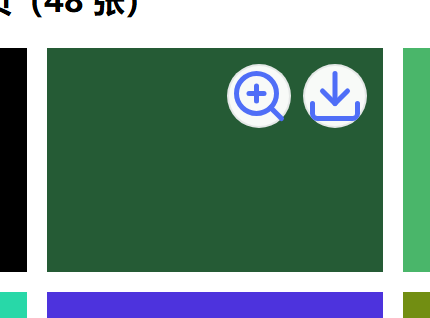
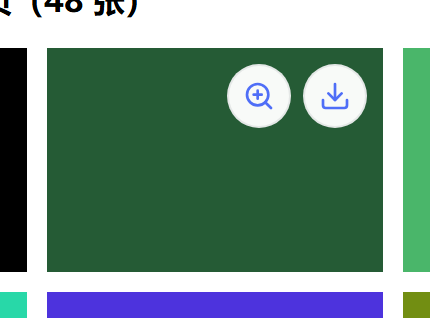
灯箱顶栏修整：保存按钮只留图标 + 图标档位在 Shadow DOM 里真正生效（v1.19.1）
用户报的现象：网页里点图片右上角放大镜进大图预览，右上角「图标异常」——
「保存原图」被挤成竖排溢出按钮，整排图标偏大、粗细不协调。查下来是两个
互不相干的缺陷叠在同一排按钮上。

1. 图标 30×30（应为 16×16）—— **这是 v1.19.0 的真漏网**：
   `--ic-*` 只定义在 theme.css 的 `:root` 上，而 `:root` 匹配的是**文档根元素**。
   内容脚本的页内 UI 跑在 Shadow DOM 里，shadow 树中不存在这个元素 →
   overlay.css 的 `var(--ic-md)` 静默失效 → width/height 退化成 auto →
   图标被撑满 32px 的按钮（实测 30×30）。
   图库页看不出来：popup.html 自己加载 theme.css，`:root` 生效、变量能继承进
   shadow 树。所以只盯图库页的截图与断言全绿。
   修法：五档抽成一条 `:root, :host { … }` 规则 —— 一条规则服务两个上下文，
   数值仍然只有一份。

2. 「保存原图」文字竖排溢出：它是唯一带文字的按钮，而 `.ih-lb-btn` 是 flex
   子项、默认允许收缩，顶栏一挤就被压到比文字还窄。
   修法：按钮改成纯图标（用户要求），并加 `flex: 0 0 auto` + `white-space: nowrap`。

顺带统一顶栏：`.ih-lb-btn` 从 `padding: 0 12px` 改成 32×32 正方形
（原来纯图标按钮被撑成 40×32，一排像被拉长），删掉多余的 `.ih-lb-icon`；
缩放的 `−` / `+` 从文字字形换成 Lucide 的 minus / plus（字形横画细竖画粗，
和 2px 描边图标对不上），走 --ic-sm。

保存按钮没有文字之后的反馈改由图标表达：空闲 download / 保存中 loader-circle
转圈 / 成功 check / 失败 circle-alert，1.8 秒回到箭头；title 与 aria-label 同步换，
读屏器仍知道当前状态。

守卫：
- browser-lightbox-local.js 新增第 8 节（6 项，48 → 54）：在**网页里**打开灯箱，
  量算出来的像素 —— 6 个按钮全 32×32、每个 svg 全 16×16、缩放步进 14×14、
  保存按钮 textContent 为空但 aria-label 在、顶栏不溢出也不折行。
  判据刻意落在像素上：「按钮里有 svg」这种断言在缺陷态下照样是绿的。
- validate.js 第 21 节 (g) 加严：档位规则的选择器必须同时含 :root 与 :host，
  且五档不许声明第二次（写两遍一定会漂）。
- 注入验证 3 项：去掉 :host → 静态红 + 运行时红（30x30）；.ih-lb-btn 退回
  padding → 红（42x32）；保存按钮放回文字 → 红 2 项（3x16 + 文字="save"）。

文档：HANDBOOK v1.19.1 条目、tests/README 第三十二个坑（同一份组件在两套变量
上下文里跑，只测了一边）+ 第 8 节说明。版本 1.19.0 → 1.19.1，截图重建。

测试：Node 17 套件（validate 293 项）+ 浏览器 28 套件（774 项）全绿。

Changed region(s): [[0.5442, 0.2264, 0.6651, 0.3962], [0.6953, 0.2264, 0.8465, 0.3962]]

diff --git a/content/lightbox.js b/content/lightbox.js
@@ -43,6 +43,14 @@
   const ICON_COPY_IMG = IH.Lucide.svg('copy');
   const ICON_GALLERY = IH.Lucide.svg('layout-grid');
   const ICON_CLOSE = IH.Lucide.svg('x');
+  const ICON_MINUS = IH.Lucide.svg('minus');
+  const ICON_PLUS = IH.Lucide.svg('plus');
+  /* 保存按钮的三种反馈态。原来这三个状态是把按钮里的文字改成
+     「保存中… / 已保存 / 保存失败」—— 一旦去掉文字，反馈就得换到图标上：
+     转圈 = 正在保存，勾 = 存好了，感叹号 = 失败。 */
+  const ICON_BUSY = IH.Lucide.svg('loader-circle');
+  const ICON_DONE = IH.Lucide.svg('check');
+  const ICON_FAIL = IH.Lucide.svg('circle-alert');
 
   let ui = null;
   let list = [];
@@ -143,16 +151,21 @@
       '  <span class="ih-lb-zoom">',
       /* 图标按钮没有可见文字，title 与 aria-label 都要给 —— 只给 title 的话
          读屏器念的是「按钮」，键盘/读屏用户根本不知道这一排是干什么的。 */
-      '    <button data-act="zoom-out" title="' + esc(t('pg.lbZoomOut')) + '" aria-label="' + esc(t('pg.lbZoomOut')) + '">−</button>',
+      '    <button data-act="zoom-out" title="' + esc(t('pg.lbZoomOut')) + '" aria-label="' + esc(t('pg.lbZoomOut')) + '">' + ICON_MINUS + '</button>',
       '    <span class="ih-lb-zoom-val">100%</span>',
-      '    <button data-act="zoom-in" title="' + esc(t('pg.lbZoomIn')) + '" aria-label="' + esc(t('pg.lbZoomIn')) + '">+</button>',
+      '    <button data-act="zoom-in" title="' + esc(t('pg.lbZoomIn')) + '" aria-label="' + esc(t('pg.lbZoomIn')) + '">' + ICON_PLUS + '</button>',
       '  </span>',
       '  <button class="ih-lb-btn" data-act="link" title="' + esc(t('pg.lbCopyLink')) + '" aria-label="' + esc(t('pg.lbCopyLink')) + '">' + ICON_LINK + '</button>',
       '  <button class="ih-lb-btn" data-act="copyimg" title="' + esc(t('pg.lbCopyImage')) + '" aria-label="' + esc(t('pg.lbCopyImage')) + '">' + ICON_COPY_IMG + '</button>',
       '  <button class="ih-lb-btn" data-act="open" title="' + esc(t('pg.lbOpenTab')) + '" aria-label="' + esc(t('pg.lbOpenTab')) + '">' + ICON_OPEN + '</button>',
       '  <button class="ih-lb-btn ih-lb-gallery" data-act="gallery" title="' + esc(t('pg.lbOpenGallery')) + '" aria-label="' + esc(t('pg.lbOpenGallery')) + '">' + ICON_GALLERY + '</button>',
-      '  <button class="ih-lb-btn ih-lb-primary" data-act="save">' + ICON_DOWNLOAD + '<span>' + esc(t('pg.saveOriginal')) + '</span></button>',
-      '  <button class="ih-lb-btn ih-lb-icon" data-act="close" title="' + esc(t('pg.lbClose')) + '" aria-label="' + esc(t('pg.lbClose')) + '">' + ICON_CLOSE + '</button>',
+      /* 保存只显示图标、不带文字。原来带「保存原图」四个字，顶栏一挤
+         文字就折成竖排、从 32px 高的按钮里溢出去（截图上像坏了）。
+         去掉文字后它是标准 32×32 图标按钮，和左边那四个一样大；
+         代价是丢了「这是保存」的文字提示 —— 用 title / aria-label 补，
+         保存过程中的反馈改由图标本身表达（见 saveCurrent）。 */
+      '  <button class="ih-lb-btn ih-lb-primary" data-act="save" title="' + esc(t('pg.saveOriginalTitle')) + '" aria-label="' + esc(t('pg.saveOriginal')) + '">' + ICON_DOWNLOAD + '</button>',
+      '  <button class="ih-lb-btn" data-act="close" title="' + esc(t('pg.lbClose')) + '" aria-label="' + esc(t('pg.lbClose')) + '">' + ICON_CLOSE + '</button>',
       '</div>',
       '<div class="ih-lb-stage">',
       '  <button class="ih-lb-nav ih-lb-prev" data-act="prev" title="' + esc(t('pg.lbPrev')) + '" aria-label="' + esc(t('pg.lbPrev')) + '">' + ICON_PREV + '</button>',
@@ -448,15 +461,31 @@
 
   /* ---------------------------- 操作 ---------------------------- */
 
+  /* 保存按钮的反馈。它现在只有图标，没有可见文字，所以状态全落在图标上：
+   *   busy → 缺口圆环（.ih-busy 让它转起来）
+   *   done → 勾（「已存在」也是勾，区别写在 title / aria-label 里）
+   *   fail → 圆圈感叹号
+   * 1.8 秒后回到下载箭头。title 与 aria-label 同步换 ——
+   * 视觉上只有一个图标，读屏器至少要知道「现在存好了还是失败了」。 */
+  function setSaveState(state, text) {
+    const btn = ui && ui.lb.querySelector('[data-act="save"]');
+    if (!btn) return;
+    const ICONS = { busy: ICON_BUSY, done: ICON_DONE, fail: ICON_FAIL, idle: ICON_DOWNLOAD };
+    btn.innerHTML = ICONS[state] || ICON_DOWNLOAD;
+    btn.classList.toggle('ih-busy', state === 'busy');
+    const label = text || (state === 'idle' ? t('pg.saveOriginalTitle') : t('pg.saveOriginal'));
+    btn.title = label;
+    btn.setAttribute('aria-label', label);
+  }
+
   async function saveCurrent() {
     const c = current();
     if (!c) return;
     const btn = ui.lb.querySelector('[data-act="save"]');
-    const label = btn.querySelector('span');
 
     clearTimeout(saveTimer);
     btn.disabled = true;
-    if (label) label.textContent = t('pg.savingShort');
+    setSaveState('busy', t('pg.savingShort'));
 
     const s = IH.Store.getSettings();
     const res = await U.sendToBg({
@@ -473,12 +502,12 @@
 
     btn.disabled = false;
     if (res && res.ok) {
-      if (label) label.textContent = res.skipped ? t('pg.skippedExists') : t('pg.savedCheck');
+      setSaveState('done', res.skipped ? t('pg.skippedExists') : t('pg.savedCheck'));
     } else {
-      if (label) label.textContent = t('pg.saveFailed');
+      setSaveState('fail', t('pg.saveFailed'));
       console.warn('[ImageHunter] 保存失败', res && res.error);
     }
-    saveTimer = setTimeout(() => { if (label) label.textContent = t('pg.saveOriginal'); }, 1800);
+    saveTimer = setTimeout(() => setSaveState('idle'), 1800);
   }
 
   function flashButton(act, ok) {

diff --git a/tests/browser-lightbox-local.js b/tests/browser-lightbox-local.js
@@ -21,6 +21,9 @@
  *   6. 图片在子 iframe 里时，预览交回顶层 frame 开
  *   7. 灯箱是页内模态：真页面上滚轮 / 空格 / ↑↓ 都不该把背景滚走，
  *      真滚动条宽度要补偿，关掉之后滚动位置还在原处
+ *   8. 顶栏图标在 Shadow DOM 里也拿得到尺寸档位（按钮 32×32、图标 16×16、
+ *      缩放步进 14×14，保存按钮只有图标没有文字）—— 这一节守的是
+ *      「只在网页里出现」的那类缺陷，图库页永远看不出来
  */
 'use strict';
 
@@ -479,6 +482,87 @@ const clickLightbox = (target, act) => target.evaluate((a) => {
     await tp.close();
     tall.close();
     tall = null;
+
+    /* --------------------------------------------------------------- *
+     * 8. 顶栏图标在 Shadow DOM 里也拿得到尺寸档位
+     *
+     * 守的是一个**只在网页里出现**的缺陷（v1.19.1 修）：
+     * `--ic-*` 原来只定义在 theme.css 的 `:root` 上，而 `:root` 匹配的是
+     * **文档根元素** —— shadow 树里不存在这个元素，于是 overlay.css 里的
+     * `var(--ic-md)` 静默失效，声明退化成 auto，图标被撑满 32px 的按钮
+     * （实测 30×30，几乎顶满，一排看过去又大又粗）。
+     *
+     * 图库页看不出这个问题：popup.html 自己 `<link>` 了 theme.css，`:root` 生效、
+     * 变量能继承进 shadow 树。所以只盯图库页的截图与断言全绿，用户一点网页里的
+     * 大图预览就露馅 —— 这正是用户报上来的现象。
+     *
+     * 判据落在**算出来的像素**上：按钮 32×32、图标 16×16、缩放步进 14×14。
+     * 只断言「按钮里有 svg」是不够的 —— 出问题的形态恰恰是「有 svg、尺寸错」。
+     * --------------------------------------------------------------- */
+    console.log('\n=== 8. 顶栏图标在 Shadow DOM 里也拿得到档位 ===');
+    {
+      const lp = await ctx.newPage();
+      await lp.goto(site.url, { waitUntil: 'domcontentloaded', timeout: 60000 });
+      await lp.bringToFront();
+      await sleep(2500);
+
+      await lp.evaluate(() => {
+        const im = Array.from(document.images)
+          .find((x) => x.getBoundingClientRect().width > 120) || document.images[0];
+        im.setAttribute('data-ih-shot', '1');
+      });
+      await lp.hover('[data-ih-shot="1"]');
+      await sleep(500);
+      await lp.locator('[data-ih-host] .ih-hover-preview').first().click({ force: true });
+      await sleep(1600);
+
+      const m = await lp.evaluate(() => {
+        const h = Array.from(document.querySelectorAll('[data-ih-host]'))
+          .find((x) => x.shadowRoot && x.shadowRoot.querySelector('.ih-lb'));
+        if (!h) return null;
+        const sr = h.shadowRoot;
+        const px = (el) => {
+          if (!el) return '(缺)';
+          const r = el.getBoundingClientRect();
+          return Math.round(r.width) + 'x' + Math.round(r.height);
+        };
+        const bar = sr.querySelector('.ih-lb-bar');
+        const save = sr.querySelector('[data-act="save"]');
+        return {
+          btns: Array.from(sr.querySelectorAll('.ih-lb-bar .ih-lb-btn'))
+            .map((b) => ({ act: b.dataset.act, box: px(b), icon: px(b.querySelector('svg')) })),
+          zoom: Array.from(sr.querySelectorAll('.ih-lb-zoom button'))
+            .map((b) => px(b.querySelector('svg'))),
+          barH: Math.round(bar.getBoundingClientRect().height),
+          overflow: bar.scrollWidth > bar.clientWidth + 1,
+          saveText: (save.textContent || '').trim(),
+          saveLabel: save.getAttribute('aria-label') || ''
+        };
+      });
+      console.log('顶栏 =', JSON.stringify(m));
+
+      check(!!m, '网页里能打开灯箱（否则下面的尺寸断言无从谈起）');
+      if (m) {
+        const boxes = m.btns.map((b) => b.box);
+        check(boxes.length === 6 && boxes.every((s) => s === '32x32'),
+          '顶栏 6 个按钮全是 32×32（不是被 padding 撑成 40×32）', boxes.join(' '));
+
+        const icons = m.btns.map((b) => b.icon);
+        check(icons.length > 0 && icons.every((s) => s === '16x16'),
+          '每个按钮里的图标都是 16×16（--ic-md 在 Shadow DOM 里生效了）', icons.join(' '));
+
+        check(m.zoom.length === 2 && m.zoom.every((s) => s === '14x14'),
+          '缩放步进图标是 14×14（--ic-sm）', m.zoom.join(' '));
+
+        check(m.saveText === '' && m.saveLabel.length > 0,
+          '保存按钮只有图标、没有文字，但 aria-label 在（读屏器仍知道它是什么）',
+          '文字=' + JSON.stringify(m.saveText) + ' / aria-label=' + m.saveLabel);
+
+        check(!m.overflow && m.barH < 80,
+          '顶栏没有横向溢出、也没有折成两行', '高 ' + m.barH + '，溢出 ' + m.overflow);
+      }
+      await lp.close();
+    }
 
     console.log('\n通过 ' + pass + ' 项，失败 ' + fail + ' 项');
   } finally {

diff --git a/tests/validate.js b/tests/validate.js
@@ -2237,18 +2237,35 @@ console.log('\n=== 21. 图标：单一来源（Lucide）+ 同层级同一档 ===
   /* 档位值必须与 theme.css 里的一致 —— 这里的数字是「规格」，不是抄的 */
   {
     const themeCss = cssOf('shared/theme.css');
-    const rootStart = themeCss.indexOf('\n:root {');
-    const rootBody = themeCss.slice(rootStart, themeCss.indexOf('\n}', rootStart));
+    const bare = themeCss.replace(/\/\*[\s\S]*?\*\//g, '');
+    /* 这五个值只能有**一份**声明，且那条规则的选择器必须同时含 `:root` 与 `:host`：
+       `:root` 服务文档（图库页 / 设置页），`:host` 服务 Shadow DOM（网页里的
+       悬停按钮与灯箱）。只写 `:root` 的话，页内 UI 里的 `var(--ic-*)` 会**静默失效**，
+       声明退化成 auto，图标撑满按钮 —— 而图库页看不出来（`:root` 生效、能继承
+       进 shadow 树），只有「网页里点开大图预览」才现形。v1.19.0 就是这样漏掉的。 */
+    const rule = /([^{}]*)\{([^{}]*--ic-md[^{}]*)\}/.exec(bare);
+    const sel = rule ? rule[1].replace(/\s+/g, ' ').trim() : '';
+    const body = rule ? rule[2] : '';
     const want = { '--ic-xs': '12px', '--ic-sm': '14px', '--ic-md': '16px',
       '--ic-lg': '20px', '--ic-xl': '32px' };
     const missing = Object.keys(want).filter((k) => {
-      const mm = new RegExp('\\' + k + '\\s*:\\s*([^;]+);').exec(rootBody);
+      const mm = new RegExp('\\' + k + '\\s*:\\s*([^;]+);').exec(body);
       return !mm || mm[1].trim() !== want[k];
     });
-    if (!missing.length) {
-      ok('shared/theme.css 定义了 5 档图标尺寸（xs 12 / sm 14 / md 16 / lg 20 / xl 32）');
-    } else {
+    const inBoth = /:root/.test(sel) && /:host/.test(sel);
+    const dupes = Object.keys(want).filter(
+      (k) => (bare.match(new RegExp('\\' + k + '\\s*:', 'g')) || []).length > 1);
+
+    if (missing.length) {
       bad('shared/theme.css 的图标档位缺失或值不对', missing.join('、'));
+    } else if (!inBoth) {
+      bad('图标档位只挂在 :root 上 —— Shadow DOM 里拿不到，页内 UI 的图标会撑满按钮',
+        '选择器：' + sel);
+    } else if (dupes.length) {
+      bad('图标档位被声明了不止一次（写两遍一定会漂）', dupes.join('、'));
+    } else {
+      ok('shared/theme.css 定义了 5 档图标尺寸（xs 12 / sm 14 / md 16 / lg 20 / xl 32），'
+        + '且 :root 与 :host 都覆盖');
     }
   }
 
@@ -2294,6 +2311,7 @@ console.log('\n=== 21. 图标：单一来源（Lucide）+ 同层级同一档 ===
       ['popup/popup.css', '.empty-art svg', '--ic-xl', '空态插画'],
       ['content/overlay.css', '.ih-hover-btn svg', '--ic-md', '网页悬停按钮'],
       ['content/overlay.css', '.ih-lb-btn svg', '--ic-md', '灯箱按钮'],
+      ['content/overlay.css', '.ih-lb-zoom button svg', '--ic-sm', '灯箱缩放步进'],
       ['content/overlay.css', '.ih-lb-nav svg', '--ic-lg', '灯箱翻页']
     ];
     const wrong = [];

diff --git a/content/overlay.css b/content/overlay.css
@@ -250,10 +250,18 @@
   display: inline-flex;
   align-items: center;
   justify-content: center;
-  gap: 6px;
-  height: 32px;
+  /* 顶栏这一排**全是纯图标按钮**，所以统一 32×32。
+     原来是 `padding: 0 12px` + `min-width: 32px`：图标按钮被撑成 40×32
+     （宽高不等，一排看过去像被拉长），带文字的「保存原图」又会因为
+     flex 默认允许收缩而被挤窄 —— 文字折成竖排、从 32px 高的按钮里溢出去。
+     现在：正方形 + `flex: 0 0 auto`（空间不够时宁可让标题省略，也不压按钮）。
+     这一条和顶栏「品牌名可以省、按钮不能被压变形」是同一个取舍。 */
+  flex: 0 0 auto;
+  width: 32px;
   min-width: 32px;
-  padding: 0 12px;
+  height: 32px;
+  padding: 0;
+  white-space: nowrap;
   border: 1px solid rgba(255, 255, 255, 0.16);
   border-radius: 9px;
   background: rgba(255, 255, 255, 0.09);
@@ -280,9 +288,11 @@
 
 .ih-lb-btn.ih-lb-primary:hover { background: var(--ih-primary-dark); }
 
-.ih-lb-btn.ih-lb-icon { padding: 0; width: 32px; }
-
 .ih-lb-btn svg { width: var(--ic-md); height: var(--ic-md); display: block; }
+
+/* 保存进行中：图标换成缺口圆环并转起来。按钮此时是 disabled（挡住重复点击），
+   opacity 会被压到 0.35 —— 转圈比一个变淡的静态图标更像「在忙」。 */
+.ih-lb-btn.ih-busy svg { animation: ih-spin 0.9s linear infinite; }
 
 .ih-lb-btn[disabled] { opacity: 0.35; cursor: default; }
 
@@ -405,6 +415,9 @@
 }
 
 .ih-lb-zoom button {
+  display: inline-flex;
+  align-items: center;
+  justify-content: center;
   width: 26px;
   height: 24px;
   border: 0;
@@ -418,6 +431,11 @@
 }
 
 .ih-lb-zoom button:hover { background: rgba(255, 255, 255, 0.16); }
+
+/* 缩放步进也是图标（Lucide minus / plus），不是文字字形 ——
+   字形和描边图标摆在一排，横画细竖画粗，对不上。
+   尺寸取 --ic-sm：它嵌在 26×24 的命中区里，用 md（16）会顶到边框。 */
+.ih-lb-zoom button svg { width: var(--ic-sm); height: var(--ic-sm); display: block; }
 
 .ih-lb-zoom .ih-lb-zoom-val {
   min-width: 44px;

diff --git a/shared/theme.css b/shared/theme.css
@@ -99,6 +99,30 @@
 
      为什么不用 em / 百分比：图标该跟「它在界面里的角色」走，不该跟父元素
      的字号走 —— 工具行和顶栏字号不同，但图标不该因此变两个大小。 */
+
+  /* 五个档位的**值**不写在这里，写在下面 `:root, :host` 那条规则里 ——
+     原因见那里。这里留一个指路注释，免得下次改动时又在这儿加一遍。 */
+}
+
+/* ---- 图标尺寸档位（唯一一份数值）----
+ *
+ * 选择器为什么是 `:root, :host` 而不是只有 `:root`：
+ *   `:root` 匹配的是**文档根元素**。内容脚本的页内 UI 跑在 Shadow DOM 里，
+ *   shadow 树中不存在「文档根元素」，所以只写 `:root` 的话，
+ *   `content/overlay.css` 里的 `var(--ic-md)` 在**网页**里会**静默失效** ——
+ *   声明退化成 auto，图标被撑满按钮（32px 的按钮里画出 30×30 的图标，
+ *   几乎顶满，一排看过去又大又粗）。
+ *
+ * 为什么图库页看不出来：popup.html 直接 `<link>` 了 theme.css，`:root` 生效，
+ *   变量能**继承**进 shadow 树。所以这个缺陷只在「网页里点开大图预览 /
+ *   悬停按钮」时出现 —— 图库页的同一份灯箱是好的。v1.19.0 正是这样漏掉的：
+ *   截图与断言都只看了图库页。
+ *
+ * 两个选择器写在**同一条规则**里，数值仍然只有一份（写两遍就一定会漂）。
+ * validate.js 的「图标」一节盯着两件事：这五个值精确等于 12/14/16/20/32，
+ * 以及这段规则的选择器必须同时包含 `:root` 与 `:host`。 */
+:root,
+:host {
   --ic-xs: 12px;   /* 卡片角标（勾选 / 放大 / 还原）、搜索浮层里的清空 */
   --ic-sm: 14px;   /* 工具行控件：筛选 / 排序 / 升降序 / 选择组 / 尺寸滑条 */
   --ic-md: 16px;   /* 按钮层：顶栏动作 / 主按钮 / 灯箱按钮 / 网页悬停按钮 */

diff --git a/shared/lucide.js b/shared/lucide.js
@@ -101,6 +101,12 @@
       + '<path d="M3.59 3.59A1.99 1.99 0 0 0 3 5v14a2 2 0 0 0 2 2h14c.55 0 1.052-.22 1.41-.59"/>'
       + '<path d="M21 15V5a2 2 0 0 0-2-2H9"/>',
     /* ---- 页内 UI（悬停 / 灯箱） ---- */
+    /* 灯箱缩放步进。原来是两个**文字**字形 `−` / `+`：字号 14px、字重随字体走，
+       和旁边 2px 描边的图标摆在一排，粗细对不上（字形的横画细、竖画粗）。
+       换成 Lucide 之后它们也是描边图标，和其它按钮同一套视觉。 */
+    'minus': '<path d="M5 12h14"/>',
+    'plus': '<path d="M5 12h14"/>'
+      + '<path d="M12 5v14"/>',
     'circle-alert': '<circle cx="12" cy="12" r="10"/>'
       + '<line x1="12" x2="12" y1="8" y2="12"/>'
       + '<line x1="12" x2="12.01" y1="16" y2="16"/>',
